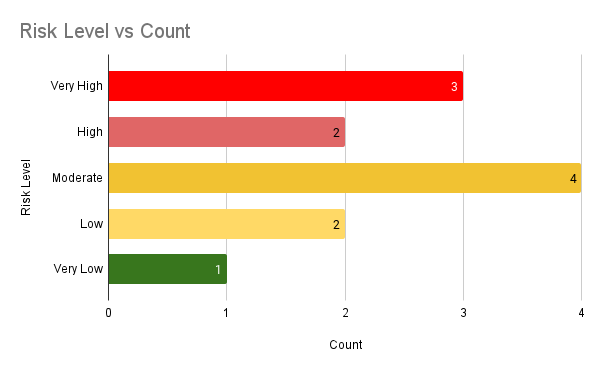
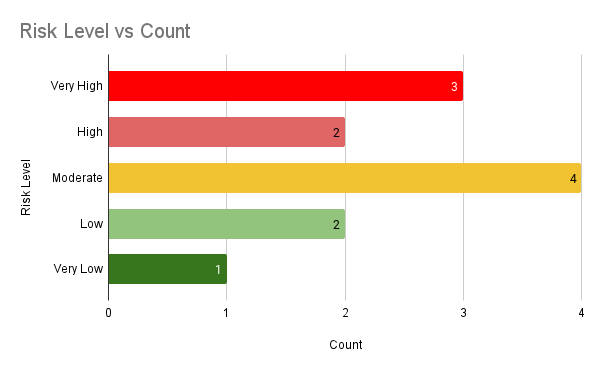
Added Chapter 3 conclusion

Changed region(s): [[0.18, 0.5633, 0.6, 0.6523]]

diff --git a/threat_model.tex b/threat_model.tex
@@ -289,6 +289,8 @@ Although ISO/IEC 20071:2022 is an internationally recognized standard for risk a
 \subsection{Analysis}
  The analysis section is one of the most critical components, forming the backbone of the research findings. It consists of data on the threats that affect the OpenID Connect application in a cloud environment. The data for the analysis are gathered using various methods, e.g., research papers, journals, and theses. To answer the research question (See \ref{sec:objectives}) mentioned in Chapter 1, the different technical threats and risks that occur due to non-compliance to regulations are analysed. As the methodology mentions, the collected threats are compared against the CAPEC database and are qualitatively assessed. Table \ref{table:risk_assessment} shows the threats analysed, and the risk level is ordered from highest to lowest. 
 
+\definecolor{ForestGreen}{rgb}{0.13, 0.55, 0.13}
+
 \begin{longtable}{|p{4cm}|p{2cm}|p{2cm}|p{2cm}|p{3cm}|}
 \caption{Table: Risk Assessment}
 \label{table:risk_assessment}
@@ -332,11 +334,11 @@ ID Spoofing & 3 & 3 &  \cellcolor{green!20} 9 & CAPEC-151\\
 
 PKCE Downgrade Attack & 2 & 4 & \cellcolor{green!20} 8 & -\\
 \hline
-Cross-tenant data Leakage & 1 & 4 &  \cellcolor{green!80} 4 & CAPEC-546 \\
+Cross-tenant data Leakage & 1 & 4 &  \cellcolor{ForestGreen} 4 & CAPEC-546 \\
 \hline
 
 \end{longtable}
- In total, 12 threats were analysed and ranked according to their risk level. Figure \ref{fig:Risk Level Counts} depicts a bar chart showing the risk level vs the count. This analysis identified three very high, two high, four moderate, two low and one very low risk. The mitigations for these threats have already been mentioned in Sub-Section \ref{subsec:stride}; however, this section highlights the level of risk each threat poses to an organization. The very high and high-rated risks have to be mitigated before the application is published. 
+ In total, 12 threats were analysed and ranked according to their risk level. Figure \ref{fig:Risk Level Counts} depicts a bar chart showing the risk level vs the count. This analysis identified three very high, two high, four moderate, two low and one very low risk. The mitigations for these threats have already been mentioned in Sub-Section \ref{subsec:stride}; however, this section highlights the level of risk each threat poses to an organization. The high and high risks must be mitigated before the application is published. 
 
 \begin{figure}[h!]
 \centering
@@ -345,4 +347,33 @@ Cross-tenant data Leakage & 1 & 4 &  \cellcolor{green!80} 4 & CAPEC-546 \\
 \end{figure}
 
 \subsection{Non-Compliance Risk}
-Non-compliance is a failure to adhere to established laws, regulations, and standards, especially in today's digital age, where vast amounts of sensitive data are also called personally identifiable information (PII). Such personal data are stored, processed, and transferred among different firms. Therefore, it is of significant priority to protect private data, and hence, various laws and rules bind companies and organisations to protect sensitive data. One of the most stringent data protection frameworks globally is the GDPR act, concerned with data processing of EU residents \citep{gdpr_stringent}. 
+Non-compliance is a failure to adhere to established laws, regulations, and standards, especially in today's digital age, where vast amounts of sensitive data are also called personally identifiable information (PII). Such personal data are stored, processed, and transferred among different firms. Therefore, protecting private data is a significant priority; hence, various laws and rules bind companies and organisations to protect sensitive data. One of the most stringent data protection frameworks globally is the GDPR act, concerned with data processing of EU residents \citep{gdpr_stringent}. 
+
+Operating an OpenID Connect application in the cloud carries a high risk if it does not comply with GDPR laws. OpenID Connect involves handling personal data, such as user information, so ensuring compliance with GDPR is crucial when working with such an application. To avoid the risk of non-compliance with GDPR, potential financial loss, and damage to reputation, specific key mitigations need to be implemented before publishing the applications. The following are the key provisions from \citep{gdpr_law} that present potential risks according to the GDPR law:
+
+
+\begin{itemize}
+    \item \textbf{Article 6 GDPR}: There should be a lawful basis for processing personal data to fulfil a contractual obligation for the data controller. Organizations must document the lawful basis for processing personal data and ensure transparency in informing users about why their data is being processed. In addition, this article also states the requirement of consent with concise text without vague legal jargon and the functionality to withdraw consent.
+    
+    \item \textbf{Articles 15-22 GDPR}: Data subject rights: proper access, rectification, erasure, and portability. These rights should be able to exercised by the users. 
+
+    \item \textbf{Article 32 GDPR }: Appropriate Security measures must be taken to protect sensitive data, such as encrypting data, maintaining access control lists, regular audits, and security checks. Failure to implement these measures can result in security breaches, leading to unauthorized access to personal data and violations of GDPR’s security requirements.
+    
+    
+    \item \textbf{Chapter V GDPR }: Cloud based applications often operate across borders. This makes it more important to consider where sensitive data such as PII are stored. GDPR imposes strict rules on transferring personal data to countries outside the European Economic Area (EEA) unless those countries have been deemed to provide adequate data protection. This chapter of GDPR stipulates that providers that are also located outside the EEA must be compliant with GDPR rules. As popular cloud providers such as AWS, Google, and Microsoft operate outside the EEA, this law plays a big role with cloud providers.  
+.
+\end{itemize}
+
+\section{Conclusion}
+
+Conducting a thorough risk assessment for an OpenID Connect application deployed in the cloud is crucial to identify potential security vulnerabilities and ensure GDPR compliance. OIDC applications handle sensitive personal data during user authentication and authorization, making them susceptible to threats such as cloud misconfigurations, phishing, man-in-the-middle (MITM) attacks, token tampering, and cross-tenant data leakage. These threats can significantly impact personal data's confidentiality, integrity, and availability. 
+
+Therefore, using the threat modelling results, we identified the threats and their mitigations, and the qualitative risk analysis helped us rank these threats according to their risk level. By arranging the threats according to their perceived risk, they can be prioritized to be more efficient. In addition to the threats, the consequence of not following GDPR will also cost the organisation a lot of money, which is a high risk. Based on these results, the high-risk threats have to be applied with the GDPR measures to ensure regulatory adherence. 
+
+
+
+
+
+
+
+

diff --git a/main.tex b/main.tex
@@ -57,6 +57,7 @@
 \usepackage{amssymb}
 \usepackage{listings}
 \usepackage{xcolor}
+\usepackage[dvipsnames]{xcolor} % Colors see https://www.overleaf.com/learn/latex/Using_colors_in_LaTeX#Named_colors_provided_by_the_xcolor_package
 \usepackage{tcolorbox}
 
 \usepackage[hidelinks]{hyperref} %https://tex.stackexchange.com/questions/823/remove-ugly-borders-around-clickable-cross-references-and-hyperlinks
